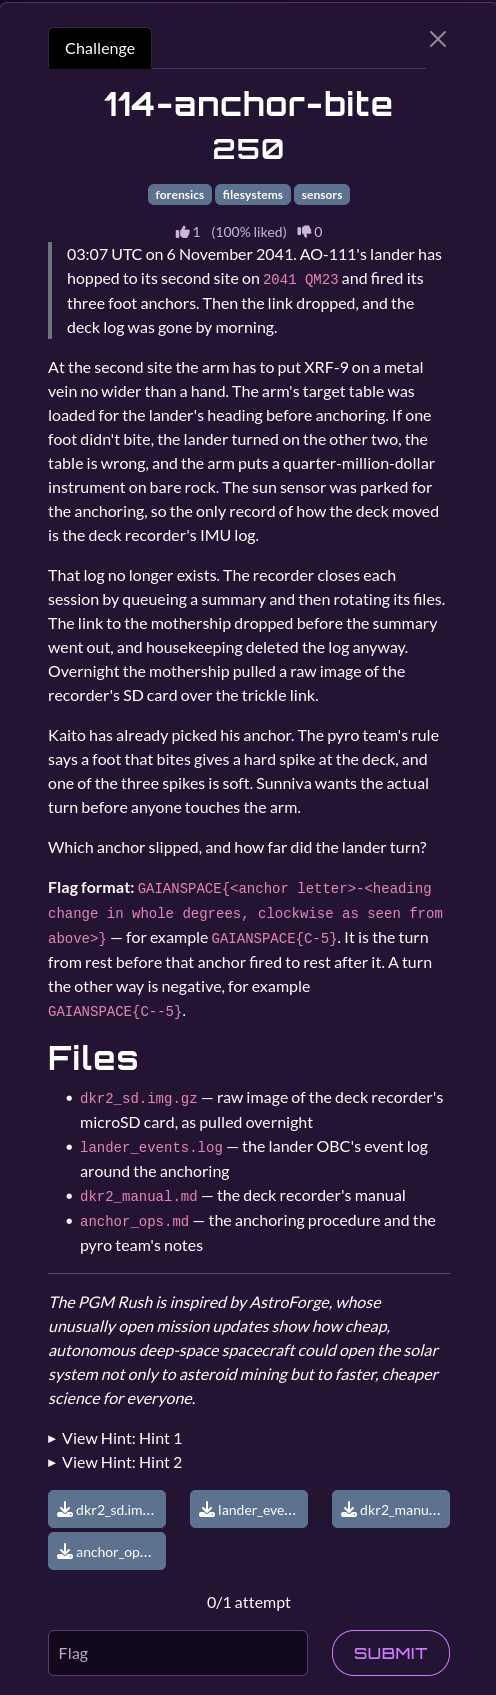
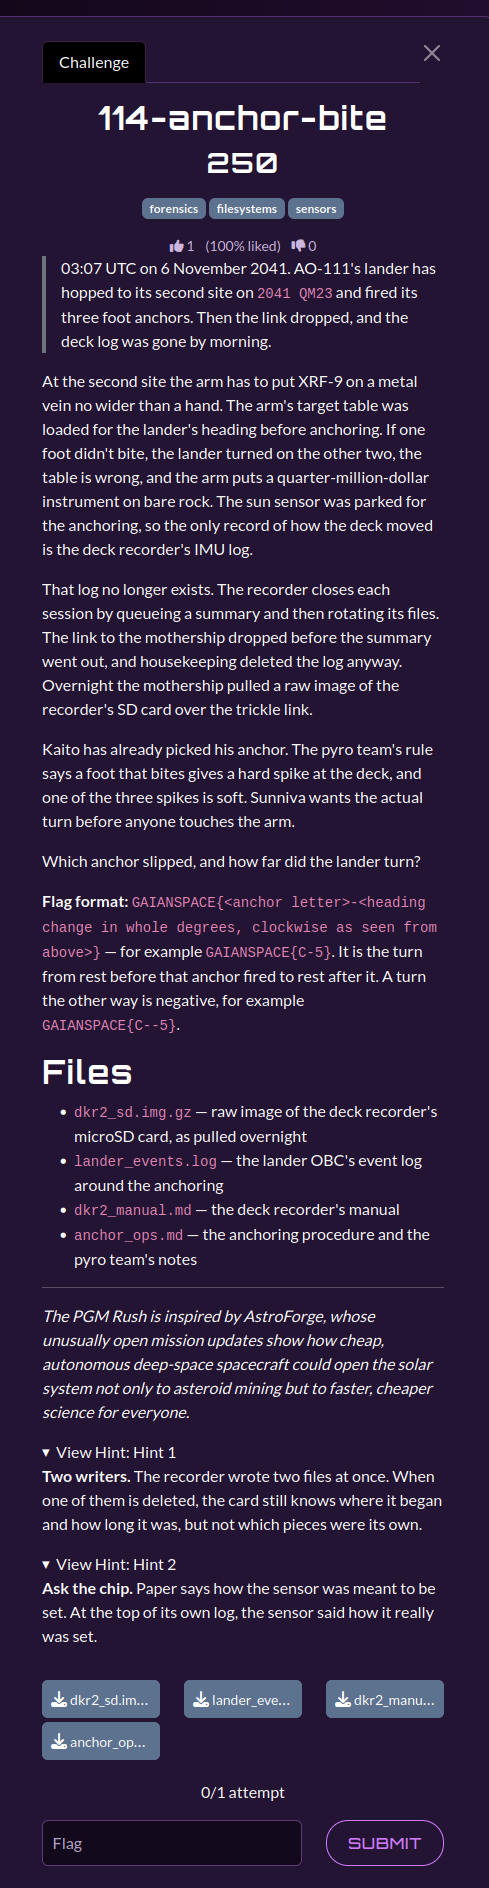
Update README.md

diff --git a/11-the-pgm-rush/110-m-type/README.md b/11-the-pgm-rush/110-m-type/README.md
@@ -23,6 +23,13 @@ Sunniva will sign the order only with the rock's designation and its size.
 
 *The PGM Rush is inspired by AstroForge, whose unusually open mission updates show how cheap, autonomous deep-space spacecraft could open the solar system not only to asteroid mining but to faster, cheaper science for everyone.*
 
+## Hints
+
+Two hints were released during the event:
+
+1. **Same face, different shine** — Several rocks have the same flat, featureless spectrum. They are not the same kind of rock. The spectrum alone cannot tell them apart.
+2. **Size from brightness** — A rock's size is not in the survey sheet, but the two numbers that give it are.
+
 ## Solution
 
 ### Steps

diff --git a/11-the-pgm-rush/116-sealed-canister/README.md b/11-the-pgm-rush/116-sealed-canister/README.md
@@ -16,6 +16,13 @@ The AO-111 sample canister was tested in a thermal-vacuum chamber before flight.
 - `cl3_datasheet.md` — CL-3 logger format and an example factory calibration table
 - `tvac_report.md` — chamber profile, reference pressure, and operator notes
 
+## Hints
+
+Two hints were released during the event:
+
+1. **Hint 1** — One number. A closed box of gas keeps one number fixed while it warms and cools. Find where it stops being fixed for good, not just for a moment.
+2. **Hint 2** — Shape or seal. A box can change its shape without opening. After a step, ask whether the gas still obeys the same law.
+
 ## Solution
 
 ### Initial Investigation and Calibration Trap

diff --git a/11-the-pgm-rush/115-locked-assayer/README.md b/11-the-pgm-rush/115-locked-assayer/README.md
@@ -26,6 +26,13 @@ Sunniva wants the anchor-site result, and its certificate code is the proof that
 
 *The PGM Rush is inspired by AstroForge, whose unusually open mission updates show how cheap, autonomous deep-space spacecraft could open the solar system not only to asteroid mining but to faster, cheaper science for everyone.*
 
+## Hints
+
+Two hints were released during the event:
+
+1. **Close company** — At this distance it matters where on Earth each telescope stands.
+2. **A good clock** — Not every night in the log deserves the same trust. A position is only as good as the time stamped on it.
+
 ## Solution
 
 ### 1. Identify the locked instrument

diff --git a/11-the-pgm-rush/112-two-clocks/README.md b/11-the-pgm-rush/112-two-clocks/README.md
@@ -24,6 +24,13 @@ Name the frame.
 - `hover_frames.csv` — the hover camera's frame index for the anchor sequence
 - `tt_icd.md` — the time-transfer service, from the AO-111 interface control document
 
+## Hints
+
+Two hints were released during the event:
+
+1. **Hint 1** — Halfway is a guess. Half the round trip each way is right only when both directions take the same time. On this link they don't, and the radio settings tell you exactly how long each one takes.
+2. **Hint 2** — Paper and practice. Documents age faster than links. Check what the radio was really set to that afternoon, all of it.
+
 ## Solution
 
 ### Time-transfer packet structure

diff --git a/11-the-pgm-rush/114-anchor-bite/README.md b/11-the-pgm-rush/114-anchor-bite/README.md
@@ -26,6 +26,13 @@ Which anchor slipped, and how far did the lander turn?
 - `dkr2_manual.md` — the deck recorder's manual
 - `anchor_ops.md` — the anchoring procedure and the pyro team's notes
 
+## Hints
+
+Two hints were released during the event:
+
+1. **Hint 1** — Two writers. The recorder wrote two files at once. When one of them is deleted, the card still knows where it began and how long it was, but not which pieces were its own.
+2. **Hint 2** — Ask the chip. Paper says how the sensor was meant to be set. At the top of its own log, the sensor said how it really was set.
+
 ## Solution
 
 ### 1. Recover the deleted IMU log

diff --git a/11-the-pgm-rush/117-the-dark-moonlet/README.md b/11-the-pgm-rush/117-the-dark-moonlet/README.md
@@ -27,6 +27,13 @@ Name the molecule and how strongly it leans.
 
 *The PGM Rush is inspired by AstroForge, whose unusually open mission updates show how cheap, autonomous deep-space spacecraft could open the solar system not only to asteroid mining but to faster, cheaper science for everyone.*
 
+## Hints
+
+Two hints were released during the event:
+
+1. **Our own hands** — Anything the lab finds on an empty run was brought from home. Take it away before you count.
+2. **Too much signal** — Not every big peak is one molecule. Count each compound on the ion it is meant to be counted on.
+
 ## Solution
 
 ### Steps

diff --git a/11-the-pgm-rush/113-touchdown/README.md b/11-the-pgm-rush/113-touchdown/README.md
@@ -24,6 +24,13 @@ Write the order.
 
 *The PGM Rush is inspired by AstroForge, whose unusually open mission updates show how cheap, autonomous deep-space spacecraft could open the solar system not only to asteroid mining but to faster, cheaper science for everyone.*
 
+## Hints
+
+Two hints were released during the event:
+
+1. **Two faces** — An elongated rock shows you its broad side twice every turn. The two views are not quite the same.
+2. **Slow fall** — The lander is not moving at the speed the spring gave it for most of the way down. And the rock keeps turning while it falls.
+
 ## Solution
 
 ### Steps

diff --git a/11-the-pgm-rush/111-short-arc/README.md b/11-the-pgm-rush/111-short-arc/README.md
@@ -25,6 +25,13 @@ Name the tracklet that is `2041 QM23`.
 
 *The PGM Rush is inspired by AstroForge, whose unusually open mission updates show how cheap, autonomous deep-space spacecraft could open the solar system not only to asteroid mining but to faster, cheaper science for everyone.*
 
+## Hints
+
+Two hints were released during the event:
+
+1. **Close company** — At this distance it matters where on Earth each telescope stands.
+2. **A good clock** — Not every night in the log deserves the same trust. A position is only as good as the time stamped on it.
+
 ## Solution
 
 ### Steps
